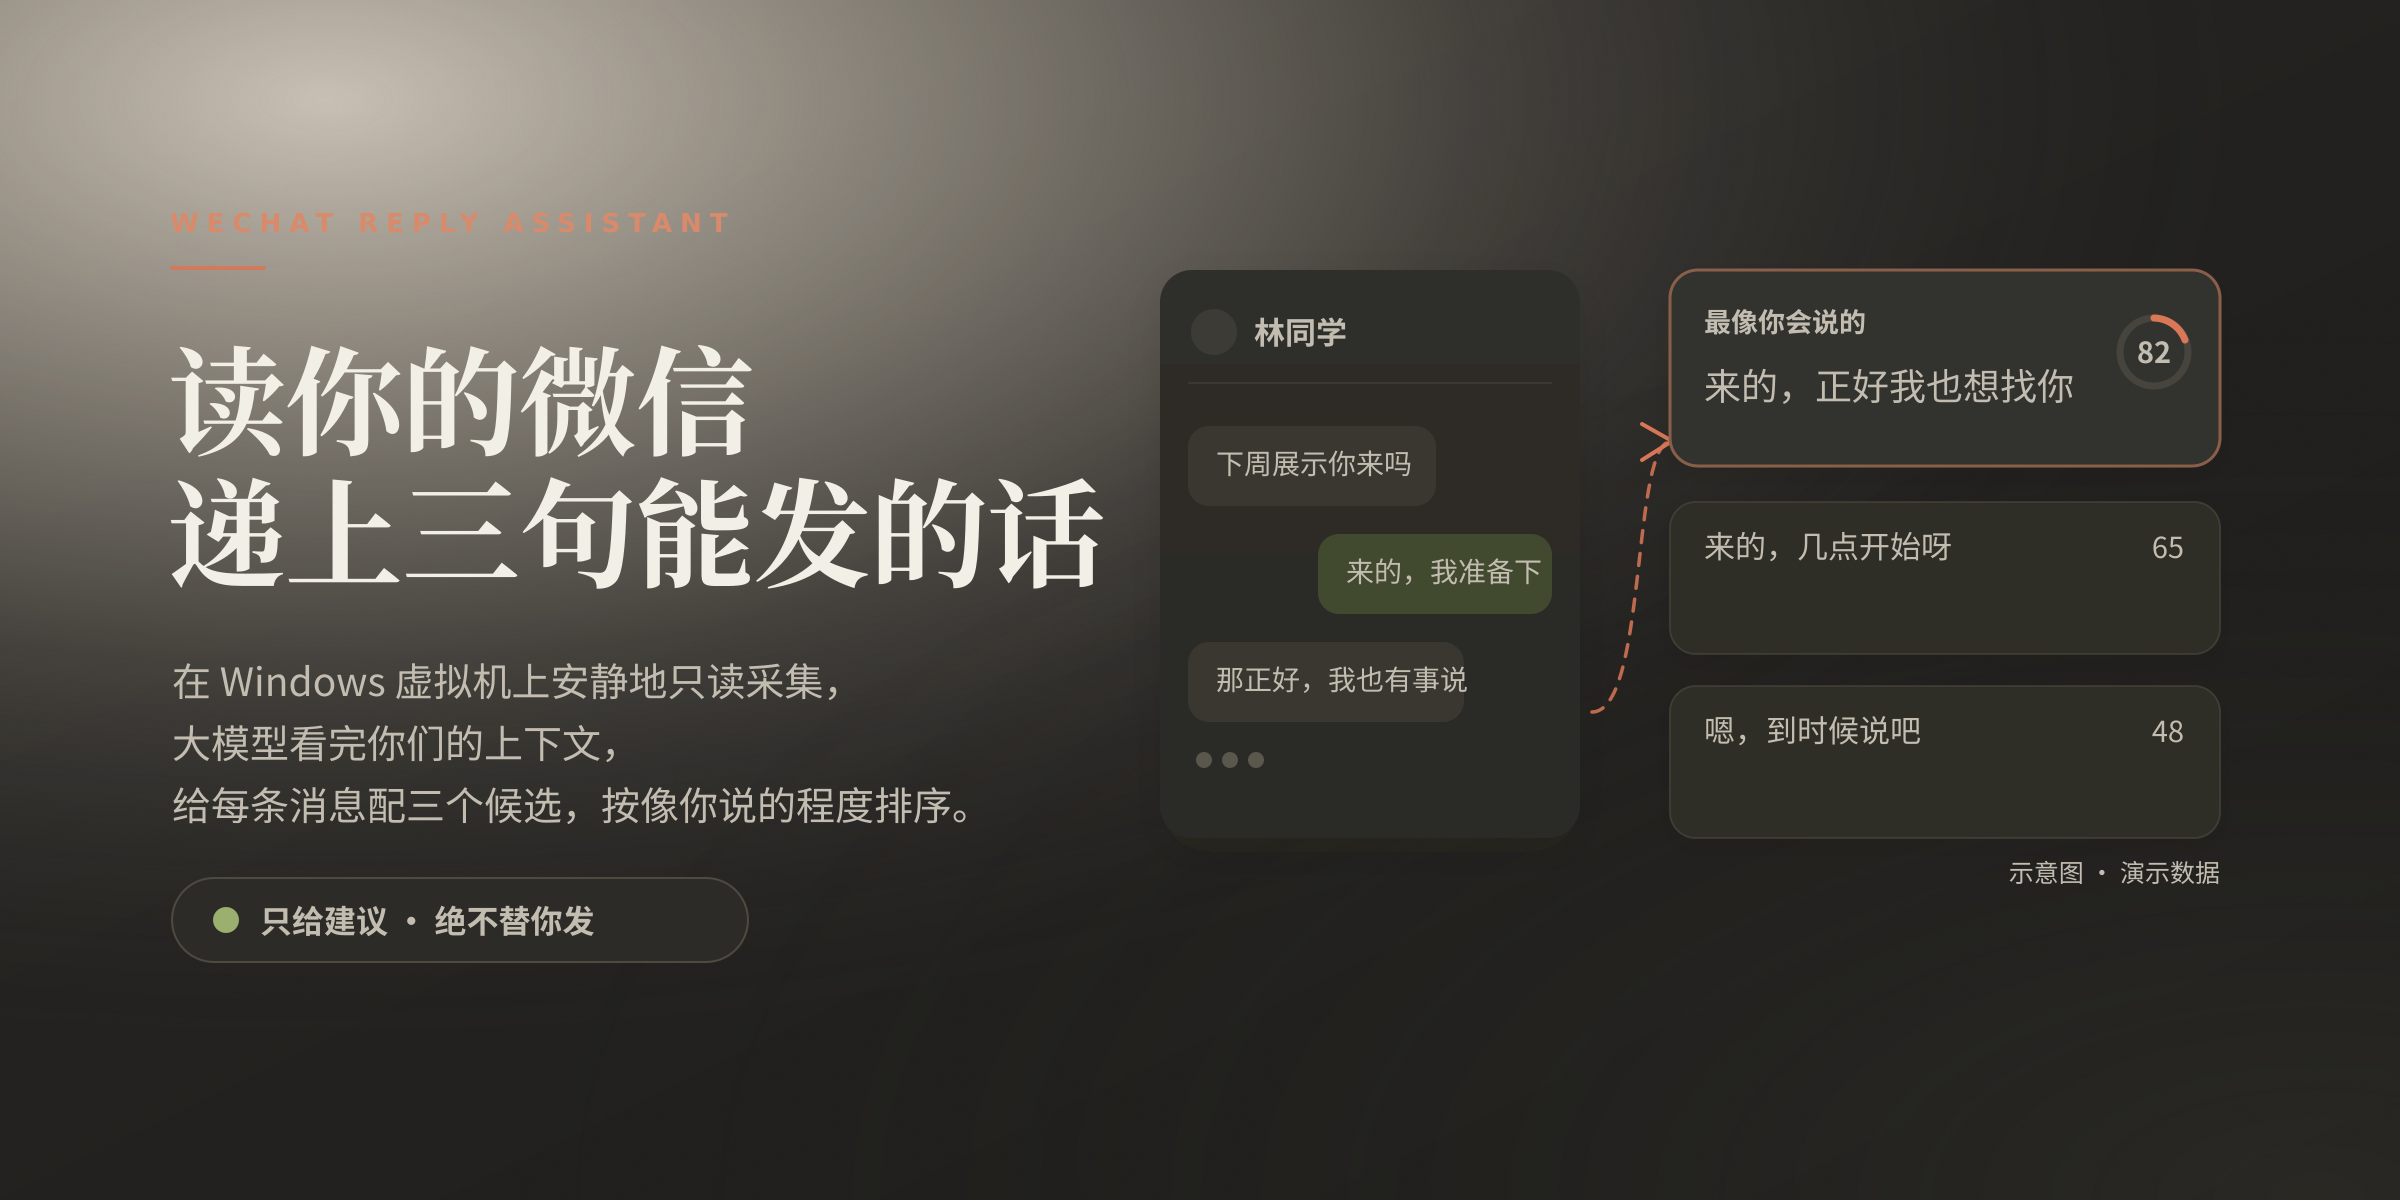
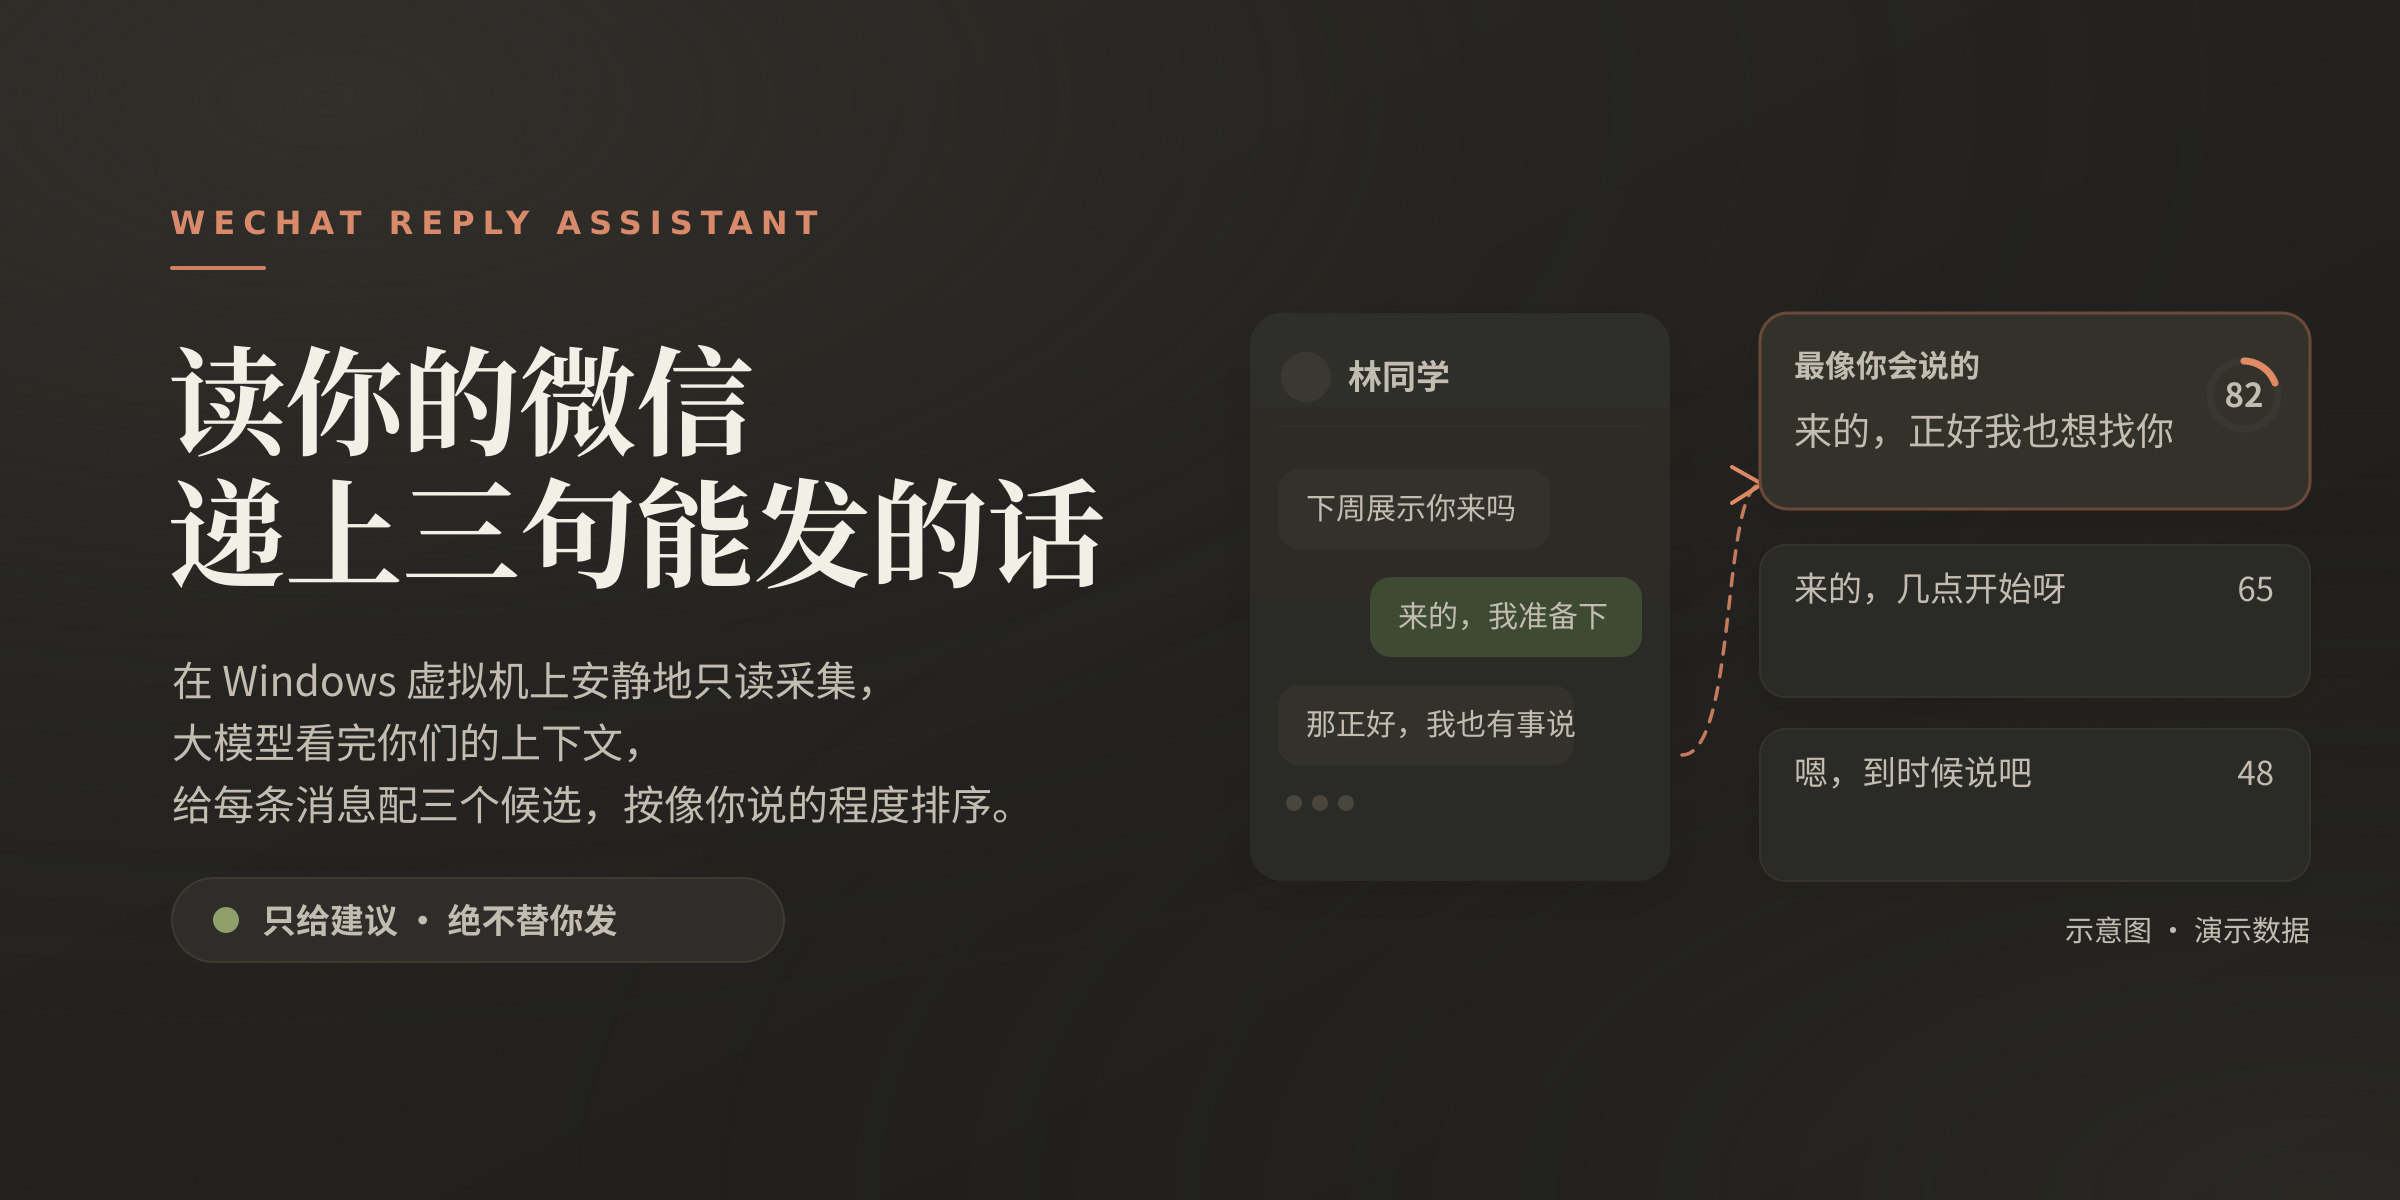
门面图加深色版，README 跟随系统深浅色

diff --git a/README.md b/README.md
@@ -1,5 +1,8 @@
 <div align="center">
-  <img src="assets/hero.png" alt="微信回复助手：读你的微信，递上三句能发的话" width="900">
+  <picture>
+    <source media="(prefers-color-scheme: dark)" srcset="assets/hero-dark.png">
+    <img src="assets/hero.png" alt="微信回复助手：读你的微信，递上三句能发的话" width="900">
+  </picture>
 </div>
 
 <br>
